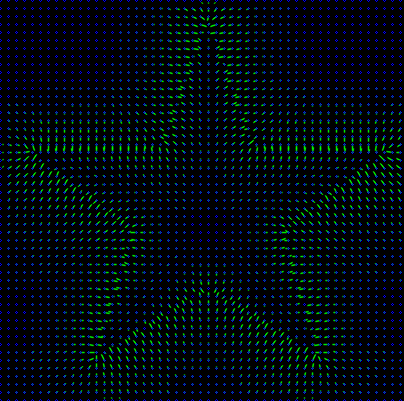
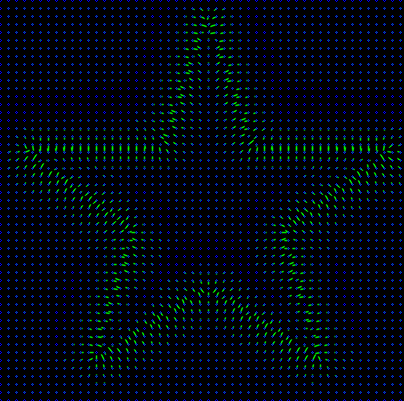
debug

diff --git a/ch2_snake_model/include/snake.h b/ch2_snake_model/include/snake.h
@@ -23,7 +23,7 @@ class Contour {
             int num_points);
     Contour(cv::Mat points);
     Contour(const Contour& contour);
-    Contour operator=(const Contour& contour);
+    Contour& operator=(const Contour& contour);
 
     cv::Vec2d& operator[](int index);
 
@@ -42,6 +42,10 @@ struct ParamSnake {
     double step_size_;
 };
 
+/**
+ * @brief
+ *
+ */
 class Snake : public GradientDescentBase {
    public:
     Snake(cv::Mat original_img, cv::Mat gvf_x, cv::Mat gvf_y, Contour contour,
@@ -61,12 +65,13 @@ class Snake : public GradientDescentBase {
     void print_terminate_info() const override;
     double compute_energy() override;
 
-    cv::Mat original_img_;
-    cv::Mat internal_force_matrix_;
+    cv::Mat original_img_;           // original image for visualization
+    cv::Mat internal_force_matrix_;  // (Id-(alpha*A - beta*B))
     ParamSnake param_snake_;
-    Contour contour_;
-    Contour last_contour_;
-    cv::Mat gvf_x_;
-    cv::Mat gvf_y_;
-    cv::Mat gvf_contour_;
+    Contour contour_;       // current contour
+    Contour last_contour_;  // contour of last step
+
+    cv::Mat gvf_x_;        // gvf in the x direction
+    cv::Mat gvf_y_;        // gvf in the y direction
+    cv::Mat gvf_contour_;  // gvf on the contour
 };

diff --git a/ch2_snake_model/src/test_snake.cpp b/ch2_snake_model/src/test_snake.cpp
@@ -19,7 +19,7 @@ int main(int argc, char** argv) {
     ParamGVF param_gvf(smooth_term, step_size);  // TODO DELETE 21
     GVF gvf(grad_original_x, grad_original_y, param_gvf);
 
-    int max_iteration_gvf = 1e4;
+    int max_iteration_gvf = 1e3;
     gvf.run(max_iteration_gvf);  // parameter: max_iteration
     std::vector<cv::Mat> gvf_result = gvf.get_result_gvf();
 

diff --git a/ch2_snake_model/src/snake.cpp b/ch2_snake_model/src/snake.cpp
@@ -63,7 +63,7 @@ cv::Mat Contour::get_points() const {
     return points_.clone();
 }
 
-Contour Contour::operator=(const Contour& contour) {
+Contour& Contour::operator=(const Contour& contour) {
     points_ = contour.points_.clone();
 }
 /**
